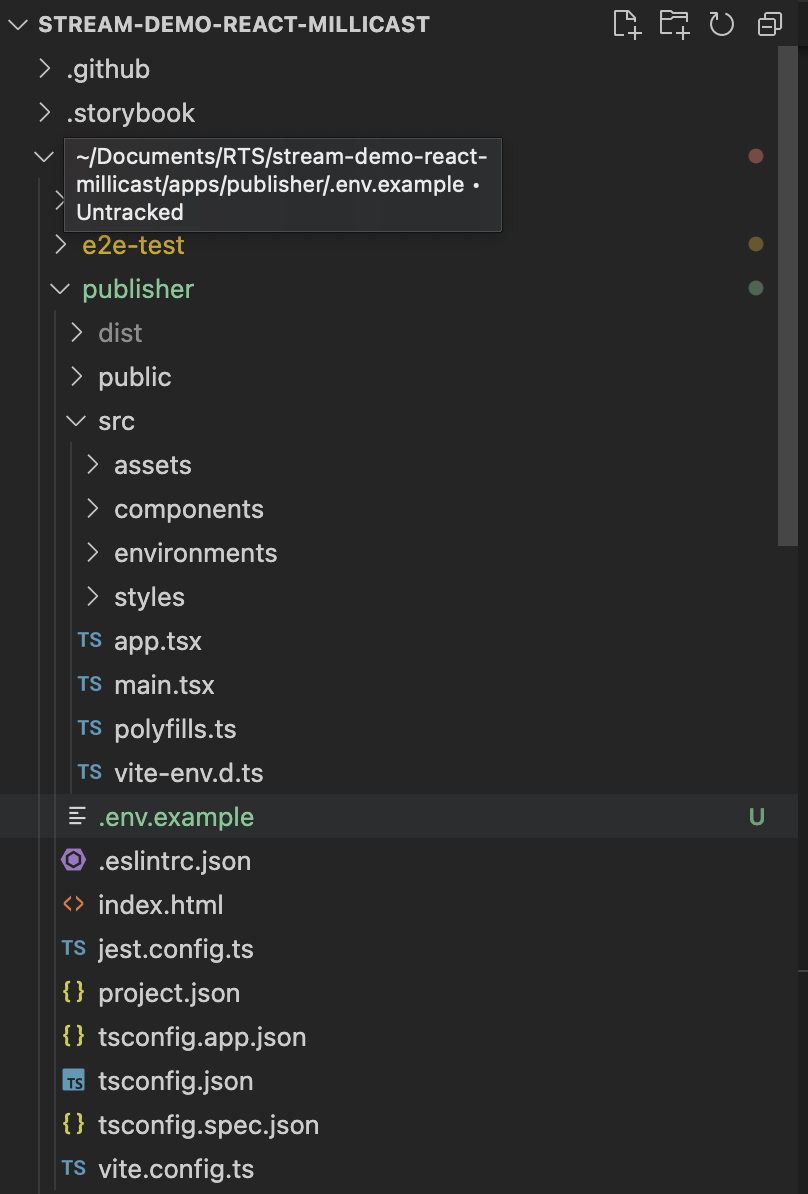
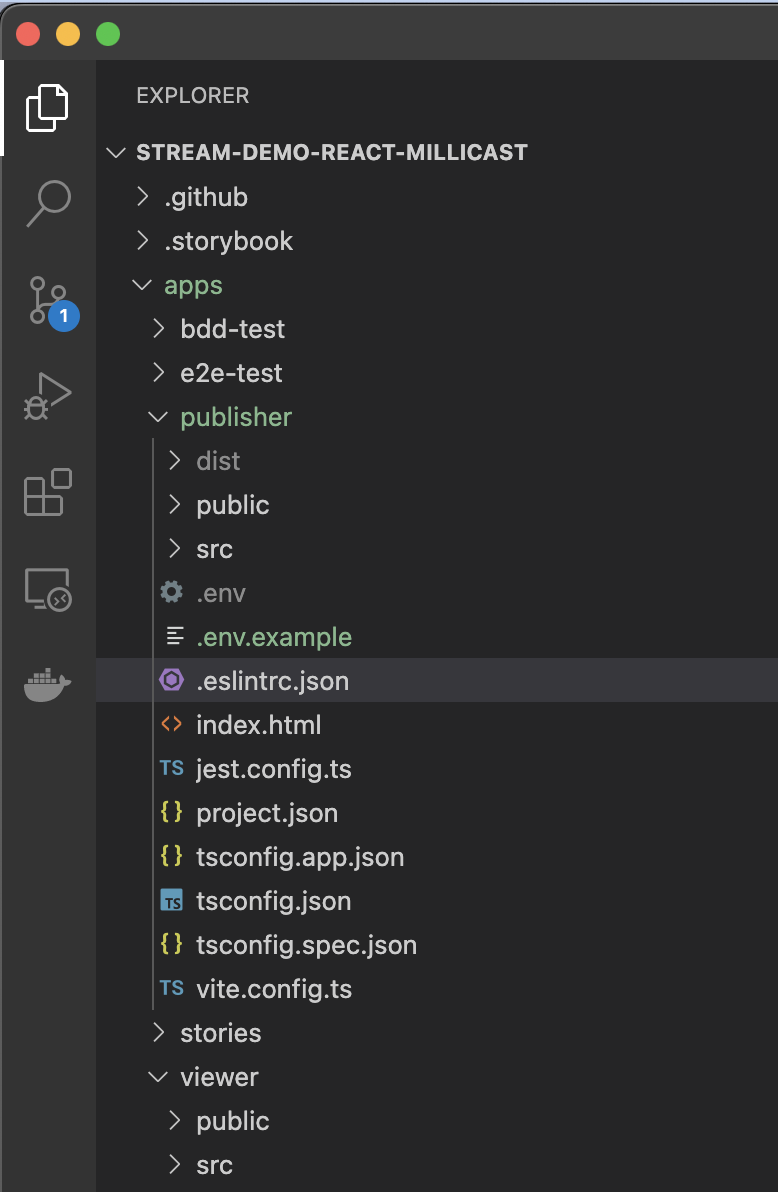
Feedback on testing

diff --git a/README.md b/README.md
@@ -53,7 +53,7 @@ This project is setup as a [yarn](https://yarnpkg.com/) based [nx-managed](https
 
 - Publisher app (under `apps/publisher`)
 - Viewer/subscriber app (under `apps/viewer`)
-- Tests (under `tests/*` )
+- Tests (under `apps/e2e-test/*` )
 - Shared components/hooks (under `libs/*`)
 - Storybook stories (under `.apps/stories/*`)
 
@@ -143,9 +143,8 @@ yarn nx preview viewer
 
 #### Run the end to end test
 
-```bash
-yarn nx e2e publisher
-```
+Refer to this guide [here](apps/e2e-test/README.md).
+**note** Please ensure your RTS tokens are present either in a .env file or as environment variables. 
 
 ## Browser compatibility
 
